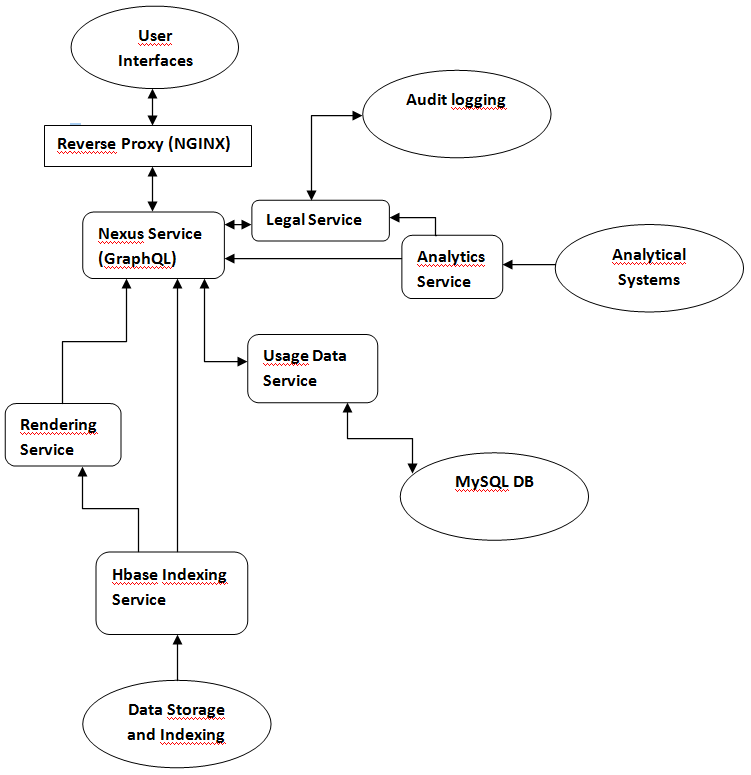
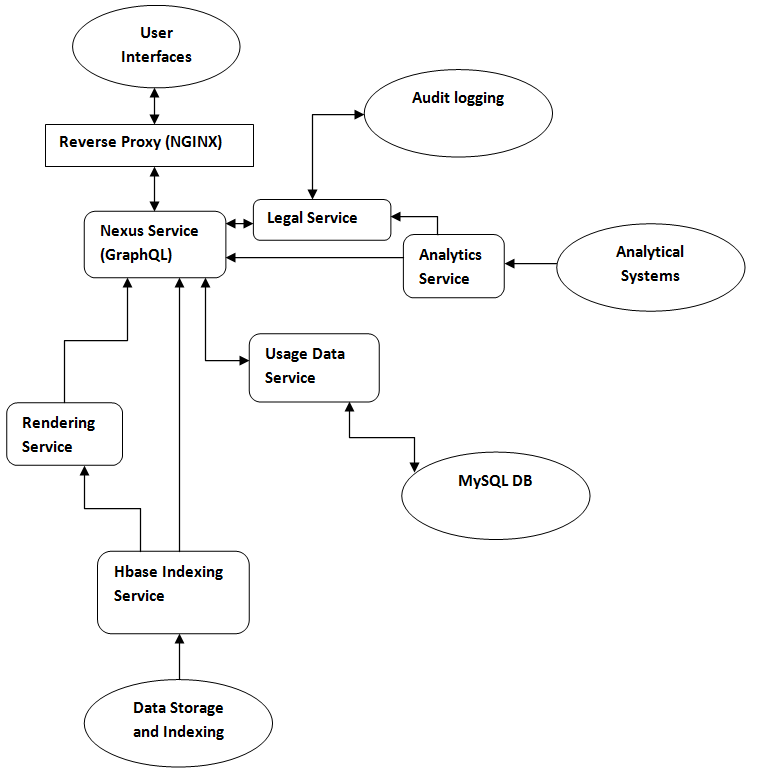
Removed spell checking from image

diff --git a/README.md b/README.md
@@ -3,7 +3,7 @@ This repository contains examples of how I prioritize tasks and solve problems. 
 
 For anyone not wishing to employ me, this is an example of how I would build a micro-service based infrastructure, for looking up information in an environment centered around an HBASE index, using spring boot for implementation.
 
-### Quick-and-dirty structure diagram
+### Quick-and-dirty structural diagram
 ![Rough diagram of the services in the architecture and the flow of data](/images/rough_diagram.png)
 
 The **boxes** are the individual parts of the system, with a *hard* box for the NGINX proxy and *soft* boxes for the Spring services. 
